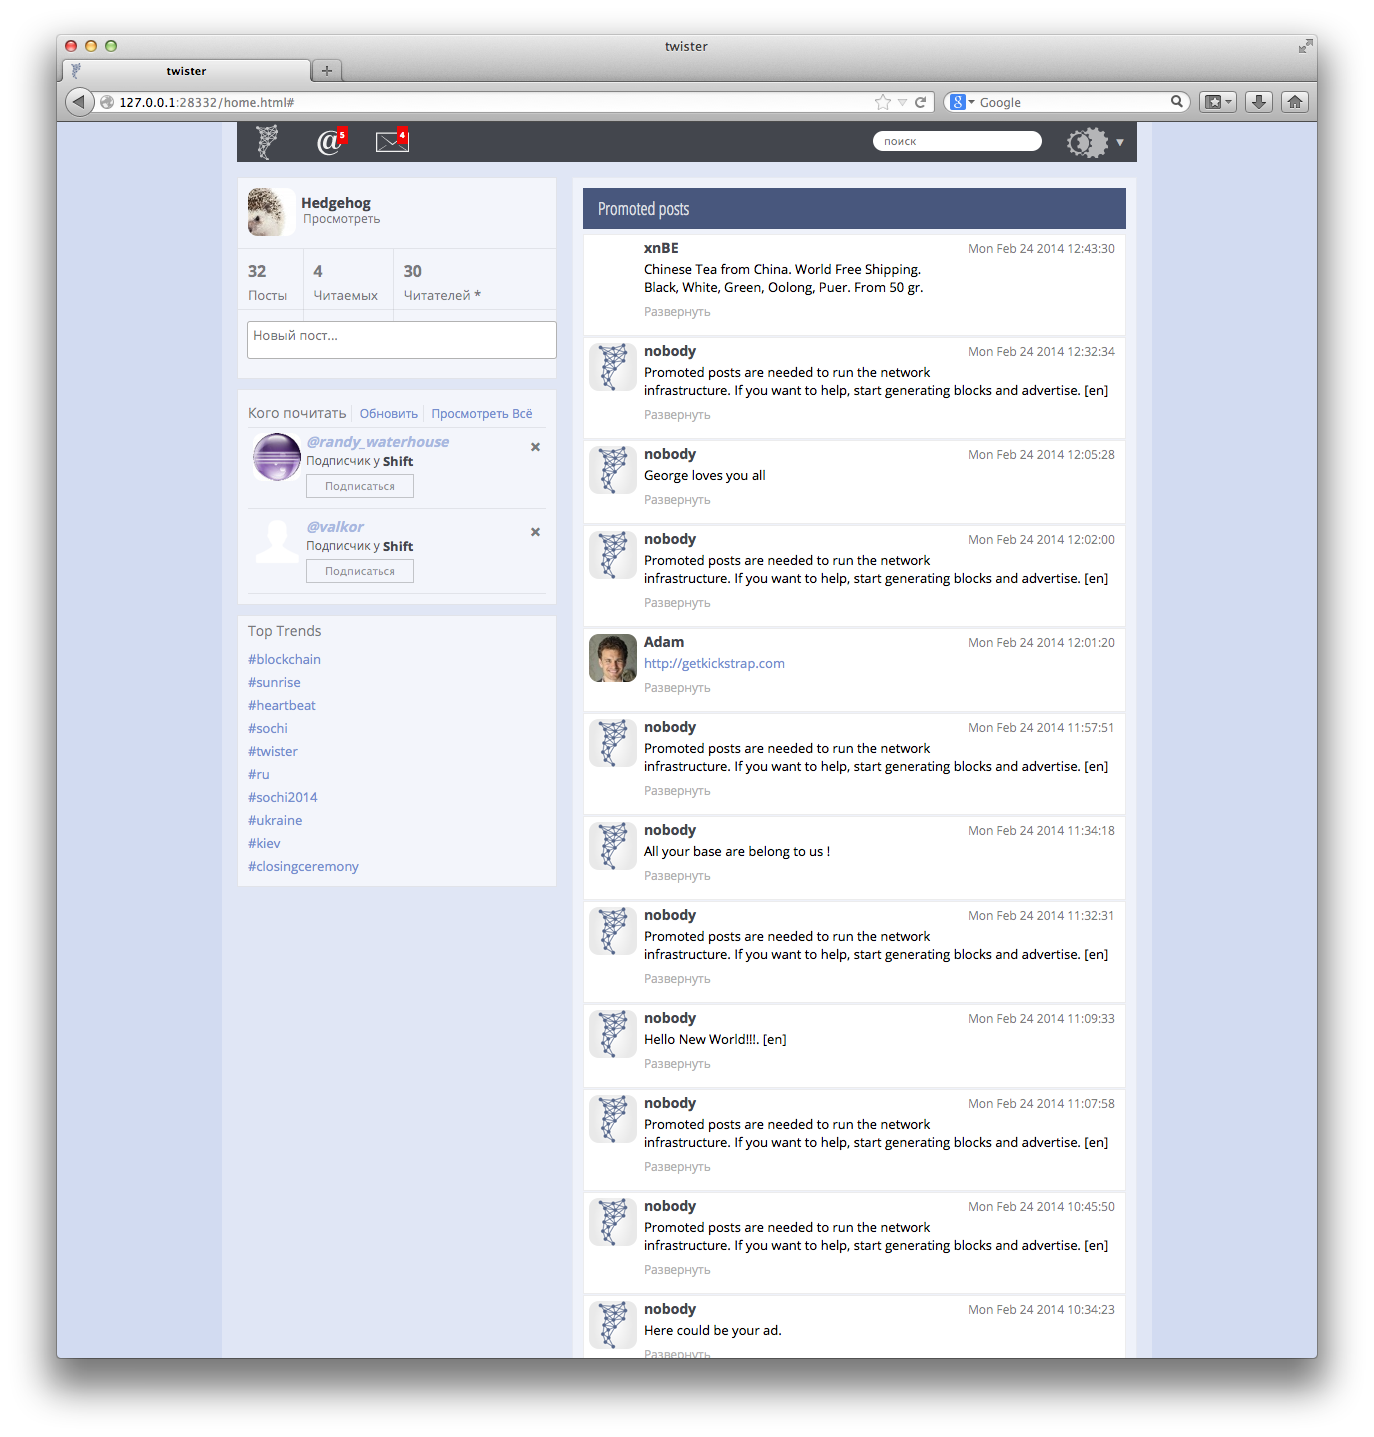
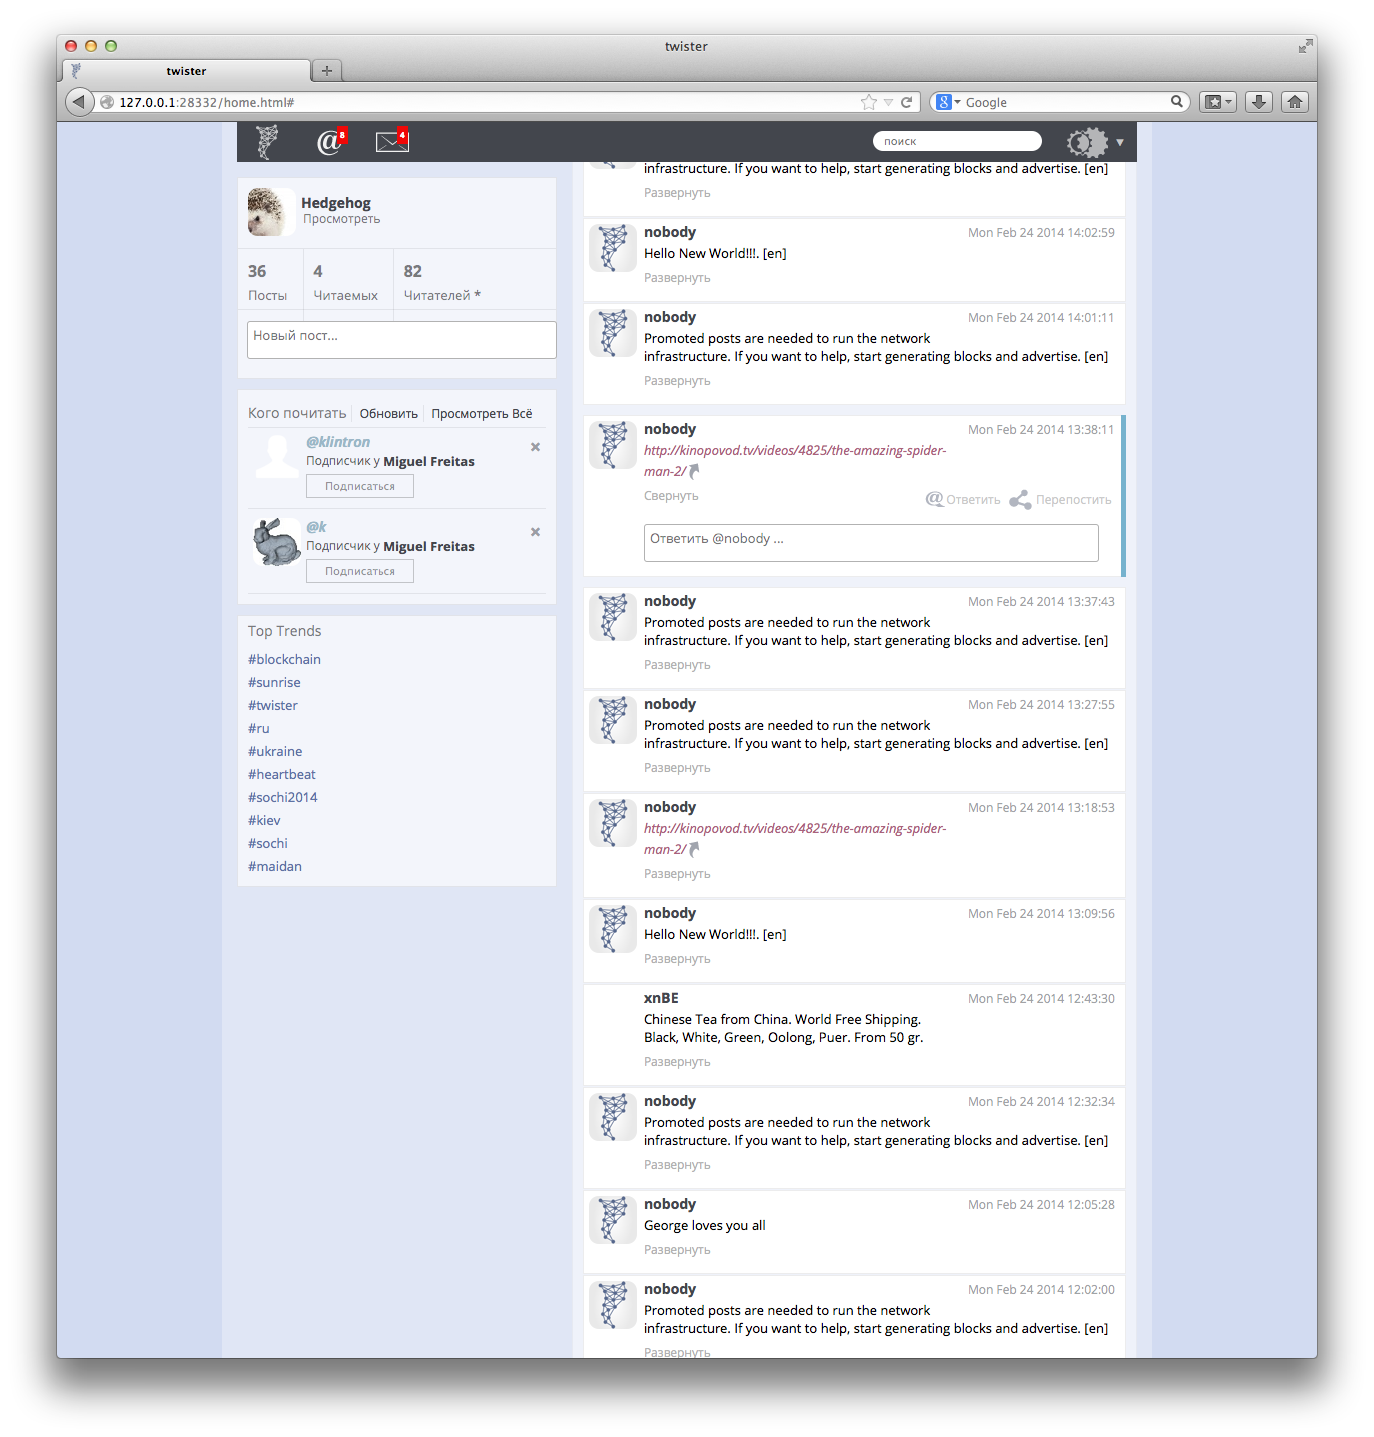
update
update

diff --git a/css/style.css b/css/style.css
@@ -664,7 +664,6 @@ button.disabled:hover
 }
 .followed-by
 {
-    color: #43464d;
     font-size: 13px;
     cursor: pointer;
 }
@@ -929,6 +928,7 @@ button.disabled:hover
 /* external http links */
 .post-text a[href^="http"] {
     font: italic 13px "Open Sans", sans-serif;
+    text-decoration: none;
     color: #aa617d;
     -webkit-transition: all 200ms;
     -moz-transition: all 200ms;
@@ -950,19 +950,21 @@ button.disabled:hover
     color: #d57a9f;
     text-decoration: underline;
 }
-.post-text a[href^="#profile"] {
+.post-text a[href^="#profile"], .follow-suggestions a[href^="#profile"] {
     color: #5e8da4;
+    text-decoration: none;
     -webkit-transition: all 200ms;
     -moz-transition: all 200ms;
     -ms-transition: all 200ms;
     -o-transition: all 200ms;
     transition: all 200ms;
 }
-.post-text a[href^="#profile"]:hover {
+.post-text a[href^="#profile"]:hover, .follow-suggestions a[href^="#profile"]:hover {
     color: #76b2ce;
 }
 .toptrends-list a[href^="#hashtag"], .post-text a[href^="#hashtag"]{
     color: #5e72a4;
+    text-decoration: none;
     -webkit-transition: all 200ms;
     -moz-transition: all 200ms;
     -ms-transition: all 200ms;
@@ -971,6 +973,19 @@ button.disabled:hover
 }
 .toptrends-list a[href^="#hashtag"]:hover, .post-text a[href^="#hashtag"]:hover{
     color: #768fce;
+}
+
+.post-info a[href^="#profile"], .followers a[href^="#profile"]{
+    color: #43464d;
+    -webkit-transition: all 200ms;
+    -moz-transition: all 200ms;
+    -ms-transition: all 200ms;
+    -o-transition: all 200ms;
+    transition: all 200ms;
+}
+.post-info a[href^="#profile"]:hover, .followers a[href^="#profile"]:hover {
+    color: #5e8da4;
+    text-decoration: none;
 }
 .mini-screen-name
 {

diff --git a/css/profile.css b/css/profile.css
@@ -61,6 +61,11 @@
     top: 16%;
     color: #7691ce;
 }
+.forEdition .profile-card-main h2 {
+    left: 20%;
+    top: 19%;
+    color: #f8f8f8;
+}
 .profile-card .direct-messages,
 .profile-card .direct-messages-with-user,
 .profile-card .follow
